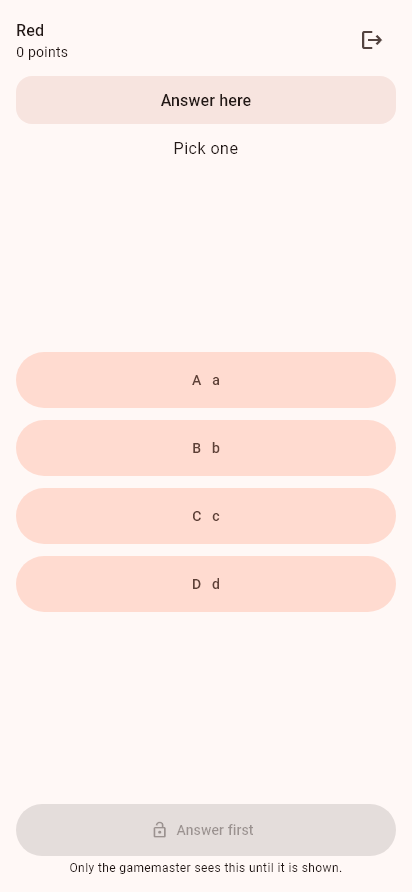
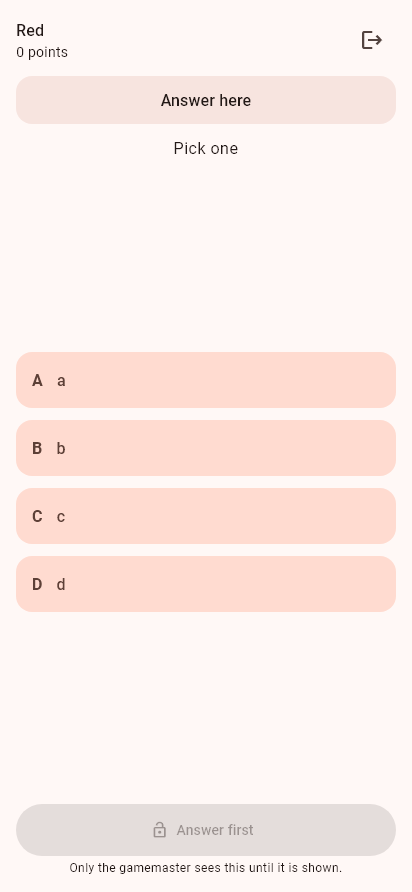
Team devices and ABCD: pick one in a grid sideways, the locked pick stays marked, 2 to 9 answers, screens that fit the question
- Pick one scrolls, and on a device held sideways shows its answers in a
  grid like the big screen. The chosen answer stays filled in with a lock
  once the team has locked in.
- ABCD questions have 2 to 9 answers (add and remove in the editor; the
  big screen shows more than four three by three; the assistant too).
- The screen menu for the teams' devices offers what fits the question
  type: a whiteboard always, Pick one (recommended) for ABCD, sorting and
  matching only for free questions.

diff --git a/lib/features/companion/answer_inputs.dart b/lib/features/companion/answer_inputs.dart
@@ -165,29 +165,39 @@ class _CompanionInputState extends State<CompanionInput> {
         );
 
       case CompanionKind.choice:
-        return Column(
-          mainAxisSize: MainAxisSize.min,
-          children: [
-            for (final (i, option) in _left.indexed)
-              Padding(
-                padding: const EdgeInsets.symmetric(vertical: 6),
-                child: SizedBox(
-                  width: double.infinity,
-                  height: 56,
-                  child: i == _choice
-                      ? FilledButton(onPressed: enabled ? () {} : null, child: Text("${String.fromCharCode(0x41 + i)}   $option"))
-                      : FilledButton.tonal(
-                          onPressed: !enabled
-                              ? null
-                              : () {
-                                  setState(() => _choice = i);
-                                  widget.onChanged(PlayerAnswer(choice: i));
-                                },
-                          child: Text("${String.fromCharCode(0x41 + i)}   $option"),
-                        ),
-                ),
+        // Held sideways the answers sit in a grid like on the big screen;
+        // upright one under the other. Either way they scroll when there are
+        // many, and the pick stays marked once it is locked in.
+        return LayoutBuilder(
+          builder: (context, box) {
+            final sideways = box.maxWidth > box.maxHeight * 1.15;
+            final columns = sideways ? (_left.length <= 4 ? 2 : 3) : 1;
+            final width = (box.maxWidth - (columns - 1) * 12) / columns;
+            return SingleChildScrollView(
+              child: Wrap(
+                spacing: 12,
+                runSpacing: 12,
+                children: [
+                  for (final (i, option) in _left.indexed)
+                    SizedBox(
+                      width: width,
+                      child: _ChoiceTile(
+                        letter: String.fromCharCode(0x41 + i),
+                        text: option,
+                        selected: i == _choice,
+                        tall: sideways,
+                        onTap: !enabled
+                            ? null
+                            : () {
+                                setState(() => _choice = i);
+                                widget.onChanged(PlayerAnswer(choice: i));
+                              },
+                      ),
+                    ),
+                ],
               ),
-          ],
+            );
+          },
         );
 
       case CompanionKind.order:
@@ -299,5 +309,51 @@ class _CompanionInputState extends State<CompanionInput> {
           ],
         );
     }
+  }
+}
+
+/// One answer to pick: letter and text, filled in once picked, and still
+/// filled in after the answer is locked.
+class _ChoiceTile extends StatelessWidget {
+  const _ChoiceTile({required this.letter, required this.text, required this.selected, required this.tall, this.onTap});
+
+  final String letter;
+  final String text;
+  final bool selected;
+  final bool tall;
+  final VoidCallback? onTap;
+
+  @override
+  Widget build(BuildContext context) {
+    final theme = Theme.of(context);
+    final scheme = theme.colorScheme;
+    final locked = onTap == null;
+    final background = selected ? scheme.primary : scheme.secondaryContainer;
+    final foreground = selected ? scheme.onPrimary : scheme.onSecondaryContainer;
+    return Opacity(
+      opacity: locked && !selected ? 0.5 : 1,
+      child: Material(
+        color: background,
+        borderRadius: BorderRadius.circular(16),
+        child: InkWell(
+          borderRadius: BorderRadius.circular(16),
+          onTap: onTap,
+          child: ConstrainedBox(
+            constraints: BoxConstraints(minHeight: tall ? 88 : 56),
+            child: Padding(
+              padding: const EdgeInsets.symmetric(horizontal: 16, vertical: 10),
+              child: Row(
+                children: [
+                  Text(letter, style: theme.textTheme.titleMedium?.copyWith(color: foreground, fontWeight: FontWeight.w800)),
+                  const SizedBox(width: 14),
+                  Expanded(child: Text(text, style: theme.textTheme.titleMedium?.copyWith(color: foreground))),
+                  if (selected) Icon(locked ? Icons.lock : Icons.check_circle, color: foreground),
+                ],
+              ),
+            ),
+          ),
+        ),
+      ),
+    );
   }
 }

diff --git a/lib/features/assistant/game_tools.dart b/lib/features/assistant/game_tools.dart
@@ -65,7 +65,7 @@ final Map<String, dynamic> _questionFields = {
   'type': {
     'type': 'string',
     'enum': ['free', 'abcd', 'progressingReveal', 'feud', 'connections', 'rapidFire', 'matching', 'topAnswers'],
-    'description': 'free: plain question. abcd: four answer options. progressingReveal: hints revealed one by one. '
+    'description': 'free: plain question. abcd: 2 to 9 answer options (A, B, C, ...). progressingReveal: hints revealed one by one. '
         'feud ("Survey duel"): a survey; the team that buzzed uncovers answers until its third strike, then the other '
         'team may steal; each answer is worth a share of the points. '
         'topAnswers ("Top answers"): "name the five most popular ...": teams find answers on a list by buzzing or on '
@@ -91,16 +91,16 @@ final Map<String, dynamic> _questionFields = {
   'answers': {
     'type': 'array',
     'items': _string,
-    'minItems': 4,
-    'maxItems': 4,
-    'description': 'abcd only: exactly four options, A to D.',
+    'minItems': 2,
+    'maxItems': 9,
+    'description': 'abcd only: 2 to 9 options, shown as A, B, C, ...',
   },
   'correct': {
     'type': 'array',
     'items': {'type': 'boolean'},
-    'minItems': 4,
-    'maxItems': 4,
-    'description': 'abcd only: which of the four options are right, aligned with answers.',
+    'minItems': 2,
+    'maxItems': 9,
+    'description': 'abcd only: which of the options are right, one entry per answer.',
   },
   'information': {
     'type': 'array',
@@ -469,13 +469,17 @@ Map<String, dynamic> questionDataFromArgs(Map<String, dynamic> args, {required b
   final correct = list<bool>('correct');
   if (answers != null || correct != null) {
     if (effective != QuestionType.abcd) throw const ToolError('"answers" and "correct" are for abcd questions.');
-    if (answers != null && answers.length != 4) throw const ToolError('An abcd question needs exactly four answers.');
-    if (correct != null && correct.length != 4) throw const ToolError('"correct" needs exactly four entries.');
+    bool fits(List<Object> list) => list.length >= kMinAbcdAnswers && list.length <= kMaxAbcdAnswers;
+    if (answers != null && !fits(answers)) throw const ToolError('An abcd question needs 2 to 9 answers.');
+    if (correct != null && !fits(correct)) throw const ToolError('"correct" needs 2 to 9 entries.');
+    if (answers != null && correct != null && answers.length != correct.length) {
+      throw const ToolError('"correct" needs one entry per answer.');
+    }
     if (answers != null) data['answers'] = answers;
     if (correct != null) data['answersCorrect'] = correct;
   }
   if (!partial && effective == QuestionType.abcd && (answers == null || correct == null)) {
-    throw const ToolError('An abcd question needs "answers" and "correct", four entries each.');
+    throw const ToolError('An abcd question needs "answers" and "correct", one entry per answer each.');
   }
 
   final information = list<String>('information');

diff --git a/lib/features/games/widgets/question_type_editors.dart b/lib/features/games/widgets/question_type_editors.dart
@@ -217,13 +217,16 @@ class _AbcdEditor extends StatefulWidget {
 }
 
 class _AbcdEditorState extends State<_AbcdEditor> {
-  static const int _count = 4;
+  /// Four for a new question, as before; 2 to 9 in all.
+  late final int _initial = widget.question.answers.length.clamp(kMinAbcdAnswers, kMaxAbcdAnswers) == widget.question.answers.length
+      ? widget.question.answers.length
+      : 4;
 
   late final List<TextEditingController> _answers = [
-    for (var i = 0; i < _count; i++) TextEditingController(text: widget.question.answers.elementAtOrNull(i) ?? ''),
+    for (var i = 0; i < _initial; i++) TextEditingController(text: widget.question.answers.elementAtOrNull(i) ?? ''),
   ];
   late final List<bool> _correct = [
-    for (var i = 0; i < _count; i++) widget.question.answersCorrect.elementAtOrNull(i) ?? false,
+    for (var i = 0; i < _initial; i++) widget.question.answersCorrect.elementAtOrNull(i) ?? false,
   ];
 
   @override
@@ -239,11 +242,28 @@ class _AbcdEditorState extends State<_AbcdEditor> {
         'answersCorrect': List<bool>.of(_correct),
       });
 
+  void _add() {
+    setState(() {
+      _answers.add(TextEditingController());
+      _correct.add(false);
+    });
+    _write();
+  }
+
+  void _remove(int i) {
+    final removed = _answers.removeAt(i);
+    _correct.removeAt(i);
+    setState(() {});
+    _write();
+    WidgetsBinding.instance.addPostFrameCallback((_) => removed.dispose());
+  }
+
   @override
   Widget build(BuildContext context) {
     return Column(
+      crossAxisAlignment: CrossAxisAlignment.start,
       children: [
-        for (var i = 0; i < _count; i++)
+        for (var i = 0; i < _answers.length; i++)
           Padding(
             padding: const EdgeInsets.only(top: 12),
             child: Row(
@@ -257,14 +277,22 @@ class _AbcdEditorState extends State<_AbcdEditor> {
                 ),
                 Expanded(
                   child: TextField(
+                    key: ObjectKey(_answers[i]),
                     controller: _answers[i],
                     decoration: InputDecoration(labelText: "Answer ${String.fromCharCode(0x41 + i)}"),
                     onChanged: (_) => _write(),
                   ),
                 ),
+                IconButton(
+                  icon: const Icon(Icons.close),
+                  tooltip: "Remove answer",
+                  onPressed: _answers.length > kMinAbcdAnswers ? () => _remove(i) : null,
+                ),
               ],
             ),
           ),
+        if (_answers.length < kMaxAbcdAnswers)
+          TextButton.icon(onPressed: _add, icon: const Icon(Icons.add), label: const Text("Add answer")),
       ],
     );
   }

diff --git a/lib/features/games/widgets/companion_editor.dart b/lib/features/games/widgets/companion_editor.dart
@@ -163,11 +163,11 @@ class _CompanionEditorState extends State<CompanionEditor> {
                 initialSelection: kind,
                 dropdownMenuEntries: [
                   const DropdownMenuEntry(value: null, label: "Nothing"),
-                  for (final option in CompanionKind.values)
-                    // "Pick one" takes its options from an ABCD question.
-                    if ((option != CompanionKind.choice || widget.question.type == QuestionType.abcd) &&
-                      option != CompanionKind.connections)
-                      DropdownMenuEntry(value: option, label: option.uiString),
+                  for (final option in companionKindsFor(widget.question.type, current: kind))
+                    DropdownMenuEntry(
+                      value: option,
+                      label: option == recommendedCompanionKind(widget.question.type) ? "${option.uiString} (recommended)" : option.uiString,
+                    ),
                 ],
                 onSelected: (value) => _change(() => _kind = value),
               ),
@@ -307,3 +307,28 @@ class _CompanionEditorState extends State<CompanionEditor> {
     );
   }
 }
+
+/// The screens that make sense on the teams' devices for a question of
+/// [type]. A whiteboard always does. A screen already chosen ([current]) stays
+/// offered, so older questions keep theirs.
+List<CompanionKind> companionKindsFor(QuestionType type, {CompanionKind? current}) {
+  final kinds = switch (type) {
+    // The answers come from the question itself.
+    QuestionType.abcd => const [CompanionKind.choice, CompanionKind.whiteboard, CompanionKind.text],
+    QuestionType.free => const [
+        CompanionKind.whiteboard,
+        CompanionKind.text,
+        CompanionKind.number,
+        CompanionKind.slider,
+        CompanionKind.order,
+        CompanionKind.match,
+        CompanionKind.list,
+      ],
+    QuestionType.feud => const [CompanionKind.whiteboard, CompanionKind.text, CompanionKind.list],
+    _ => const [CompanionKind.whiteboard, CompanionKind.text],
+  };
+  return [...kinds, if (current != null && !kinds.contains(current) && current != CompanionKind.connections) current];
+}
+
+/// The screen a question of [type] is meant for, marked in the menu.
+CompanionKind? recommendedCompanionKind(QuestionType type) => type == QuestionType.abcd ? CompanionKind.choice : null;

diff --git a/test/assistant_test.dart b/test/assistant_test.dart
@@ -131,7 +131,7 @@ void main() {
       expect(questionDataFromArgs({'pointsPlus': 300, 'label': 'Hard'}, partial: true), {'pointsPlus': 300, 'description': 'Hard'});
     });
 
-    test('abcd needs four answers and four marks', () {
+    test('abcd takes 2 to 9 answers, each with its mark', () {
       final data = questionDataFromArgs({
         'type': 'abcd',
         'question': 'Pick',
@@ -141,9 +141,16 @@ void main() {
       expect(data['answers'], ['a', 'b', 'c', 'd']);
       expect(data['answersCorrect'], [false, true, false, false]);
       expect(
-        () => questionDataFromArgs({'type': 'abcd', 'question': 'Pick', 'answers': ['a', 'b'], 'correct': [true, false]}, partial: false),
-        throwsA(isA<ToolError>()),
+        questionDataFromArgs({'type': 'abcd', 'question': 'Pick', 'answers': ['a', 'b'], 'correct': [true, false]}, partial: false)['answers'],
+        ['a', 'b'],
       );
+      for (final args in <Map<String, dynamic>>[
+        {'answers': ['a'], 'correct': [true]},
+        {'answers': List.filled(10, 'x'), 'correct': List.filled(10, false)},
+        {'answers': ['a', 'b', 'c'], 'correct': [true, false]},
+      ]) {
+        expect(() => questionDataFromArgs({'type': 'abcd', 'question': 'Pick', ...args}, partial: false), throwsA(isA<ToolError>()), reason: '$args');
+      }
       expect(() => questionDataFromArgs({'type': 'abcd', 'question': 'Pick'}, partial: false), throwsA(isA<ToolError>()));
     });
 
@@ -583,7 +590,7 @@ void main() {
         'arguments': {'gameId': 'g', 'categoryId': 'c1', 'type': 'abcd', 'question': 'Pick'},
       });
       expect(reply['result']['isError'], true);
-      expect(reply['result']['content'][0]['text'], contains('four'));
+      expect(reply['result']['content'][0]['text'], contains('one entry per answer'));
       expect(backend.questions['c1'], hasLength(1));
     });
 

diff --git a/tool/screenshot_test.dart b/tool/screenshot_test.dart
@@ -329,6 +329,41 @@ void main() {
     await shot('player_waiting');
   });
 
+  testWidgets('player: pick one on a tablet held sideways, locked in', (tester) async {
+    tester.view.physicalSize = const Size(1180, 820);
+    tester.view.devicePixelRatio = 1;
+    addTearDown(tester.view.reset);
+    host = SessionHost(initial: fixtureState(), game: fixtureGame());
+    addTearDown(host.dispose);
+    const options = ['Mercury', 'Venus', 'Earth', 'Mars', 'Jupiter', 'Saturn'];
+    host
+      ..dispatch(const OpenQuestion(abcd))
+      ..dispatch(const OpenAnswers(CompanionSpec(kind: CompanionKind.choice, options: options)));
+    await tester.pumpWidget(MaterialApp(
+      debugShowCheckedModeBanner: false,
+      theme: theme(Brightness.light),
+      home: Scaffold(
+        body: SafeArea(
+          child: StreamBuilder<SessionState>(
+            stream: host.states,
+            builder: (context, _) => PlayerView(
+              view: PublicView(host.publicState),
+              teamId: 'red',
+              send: (command) => host.dispatch(command, sender: const Sender(Role.player, teamId: 'red')),
+              onLeave: () {},
+            ),
+          ),
+        ),
+      ),
+    ));
+    await tester.pump(const Duration(milliseconds: 300));
+    await tester.tap(find.text('Saturn'));
+    await tester.pump(const Duration(milliseconds: 300));
+    host.dispatch(const LockAnswer('red'), sender: const Sender(Role.player, teamId: 'red'));
+    await tester.pump(const Duration(milliseconds: 400));
+    await shot('player_choice_sideways_locked');
+  });
+
   testWidgets('player: choice', (tester) async {
     await player(tester, const [OpenQuestion(abcd), Reveal(1), Reveal(1), OpenAnswers(CompanionSpec(kind: CompanionKind.choice, options: ['a', 'b', 'c', 'd']))]);
     await shot('player_choice');

diff --git a/lib/features/session/pages/presenter_view.dart b/lib/features/session/pages/presenter_view.dart
@@ -388,7 +388,8 @@ class QuestionDisplay extends StatelessWidget {
               flex: 2,
               child: _Tiles(
                 unit: unit,
-                columns: 2,
+                // Up to four answers two by two, more three by three.
+                columns: question.answers.length <= 4 ? 2 : 3,
                 tiles: [
                   for (final (i, answer) in question.answers.indexed)
                     (

diff --git a/test/player_ui_test.dart b/test/player_ui_test.dart
@@ -132,7 +132,7 @@ void main() {
       ..dispatch(const OpenQuestion(abcd))
       ..dispatch(const OpenAnswers(CompanionSpec(kind: CompanionKind.choice, options: ['a', 'b', 'c', 'd'])));
     await pumpPlayer(tester, teamId: 'blue');
-    await tester.tap(find.text('C   c'));
+    await tester.tap(find.text('c'));
     await tester.pump();
     expect(host.state.answerRound!.answers['blue']!.choice, 2);
   });

diff --git a/lib/game/content.dart b/lib/game/content.dart
@@ -256,6 +256,10 @@ class MusicConfig {
       [...slots.values, ...effects.values].where((name) => !name.startsWith(builtinSoundPrefix) && name != silentSound);
 }
 
+/// How many answers an ABCD question may have.
+const int kMinAbcdAnswers = 2;
+const int kMaxAbcdAnswers = 9;
+
 enum QuestionType {
   free("Free Question"),
   abcd("ABCD"),
